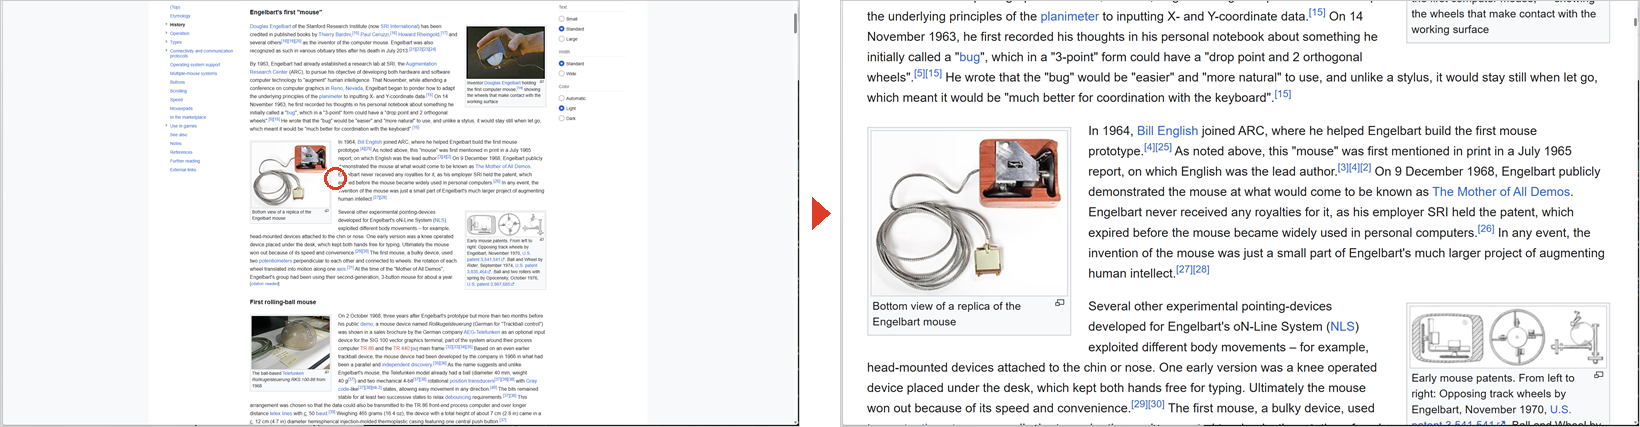
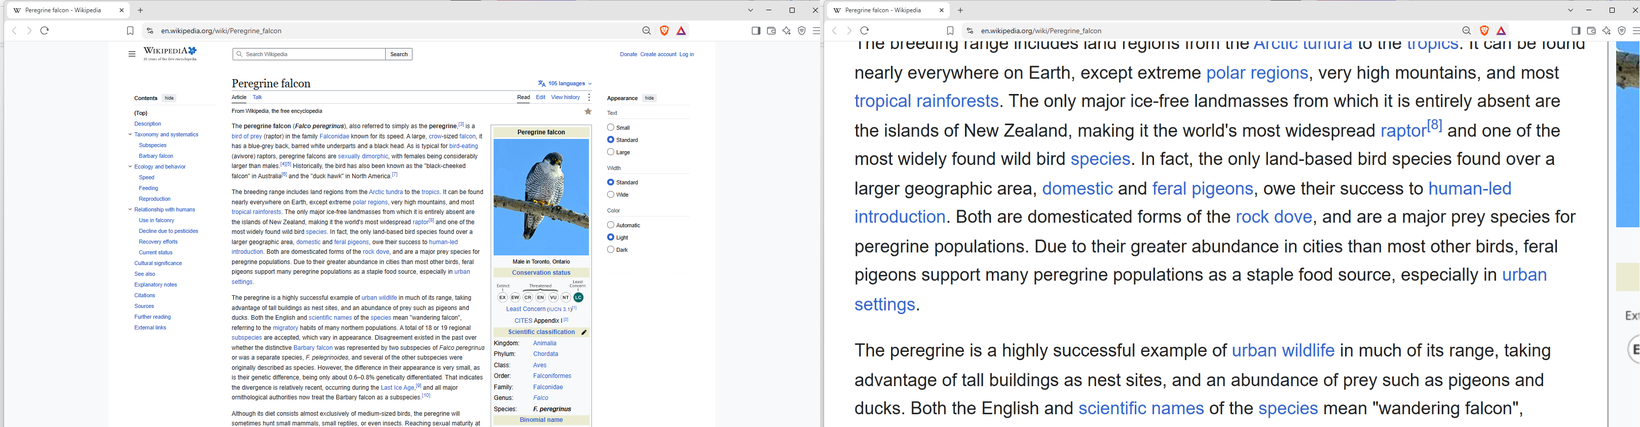
The README shows what a press actually does
The demo media and half the prose still described the old browser
behaviour, where a press found the paragraph under the cursor and fitted
it to the window. Since yesterday a browser press magnifies the page by
the amount you set, around the pixel under the pointer. The hero image is
the first thing a visitor sees and it was promising something the app no
longer does.

- Both demo images recaptured live through the running app: the static
  before/after and the animation now show a x3 magnification around the
  pointer and the second press putting it back. Same dimensions as the
  images they replace, so the README layout is unchanged, and the GIF is
  slightly smaller than the old one.
- The opening line, both browser rows of the strategy table and the alt
  text no longer claim the zoom is element-aware in a browser. Word and
  Excel still say they fit, because they do.
- The blocked-page limitation described falling back from "a fit of the
  element" to a centred zoom; that distinction is gone, since the zoom is
  the same size wherever it is aimed. It now also mentions that a page
  already at the browser's zoom ceiling is cleared and retried first.
- The Word limitation said the zoom is stepped. It is a gesture on the way
  in and stepped on the way out, and the entry says why.
- The Excel limitation gave a reason for not animating that is no longer
  the reason; replaced with the measured one.

docs/diagnostics-design.md said AdapterThrew means an adapter raised an
[…]

diff --git a/README.md b/README.md
@@ -1,22 +1,23 @@
 # SmartZoom for Windows
 
 **Bringing macOS's smart zoom to Windows.** Press a mouse button and the application under the
-cursor zooms its *content* to fit the element you're pointing at. Press again to return to exactly
+cursor zooms its *content* in on whatever you are pointing at — by the amount you choose in a browser,
+or to fit the paragraph, table or block of cells in Word and Excel. Press again to return to exactly
 where you were.
 
-![Before: a full Wikipedia page with the cursor on a paragraph. After: that paragraph fills the browser window.](docs/media/before-after-readme.png)
+![Before: a full Wikipedia page with the pointer resting in the article. After: the same page magnified three times around that point, the text large and crisp.](docs/media/before-after-readme.png)
 
 The same press, in motion:
 
-![One press zooms the paragraph under the cursor to the window; the next press puts the page back exactly as it was.](docs/media/smart-zoom.gif)
+![One press magnifies the page around the pointer; the next press puts it back exactly as it was.](docs/media/smart-zoom.gif)
 
 Windows has no system gesture for this, so SmartZoom is a small tray app that captures a mouse or keyboard
 trigger and routes it to a per-application zoom strategy:
 
 | Target | Strategy | Precision |
 |---|---|---|
-| Chrome, Edge, Brave, Opera, Vivaldi (any Chromium browser) | Native smart zoom: finds the paragraph/image under the cursor through the browser's accessibility tree and pinch-zooms it to fill the window — no extension needed | Element-aware, visual zoom (no reflow), exact restore |
-| Firefox | Native smart zoom, the same way: the block under the cursor comes from Firefox's accessibility tree and is pinch-zoomed through a synthetic touch device that Firefox accepts as a touch screen | Element-aware, visual zoom (no reflow), exact restore |
+| Chrome, Edge, Brave, Opera, Vivaldi (any Chromium browser) | Native smart zoom: pinch-zooms the page by the amount you set, around the pixel under the cursor, using the browser's own touch handling — no extension needed | Aimed at the cursor, visual zoom (no reflow), exact restore |
+| Firefox | Native smart zoom, the same way, through a synthetic touch device that Firefox accepts as a touch screen | Aimed at the cursor, visual zoom (no reflow), exact restore |
 | Word | Smart zoom through Word's object model: the paragraph, table or picture under the cursor is zoomed to fill the document pane; the previous zoom and scroll position are restored exactly | Element-aware, exact restore |
 | Excel | Smart zoom through Excel's object model: the block of data under the cursor — the surrounding island of filled cells, or the cells a chart or picture covers — is zoomed to fill the worksheet pane, and the view is scrolled to the row you pointed at | Element-aware, exact restore |
 | Acrobat, Acrobat Reader, SumatraPDF | An animated pinch around the cursor, the same gesture the browsers get: what you pointed at stays where it is and grows. The second press animates the magnification away and lands on the reader's own "fit page" | Animated, follows the cursor, never drifts |
@@ -200,7 +201,8 @@ four-finger tap can instead be a *Custom shortcut*, which you point at one of yo
 Logs are written to `%LOCALAPPDATA%\SmartZoom\logs` (rolling daily, 14 days kept).
 
 Settings → Diagnostics keeps a small local record of what SmartZoom failed to do — presses that
-zoomed nothing, adapters that threw, and crashes — at `%LOCALAPPDATA%\SmartZoom\diagnostics.json`, and renders
+zoomed nothing, zooms that failed or ran too long, and crashes — at
+`%LOCALAPPDATA%\SmartZoom\diagnostics.json`, and renders
 it on demand as a report you can copy into a bug report. It's on by default; the same section has a switch to
 turn it off — written to your settings file at once, so it stays off — and a button to clear what's recorded.
 Nothing in it is sent anywhere — see [SECURITY.md](SECURITY.md) for exactly what it holds and what it never
@@ -260,18 +262,21 @@ depending on which window is focused.
   inside the window. An element that blocks the pinch (`touch-action: none`, common in dialogs and
   drag-and-drop UIs such as Jira's) hands the gesture to the page's own scripts; SmartZoom notices because the
   screen does not change, and immediately tries the same zoom again from an anchor outside that element —
-  first beside it, then at the middle of the window. What you get then is a **visual zoom of the whole page
-  centred near the cursor rather than a fit of the element**: the browser scales the viewport around the new
-  anchor, so what you pointed at is magnified and still in view, but not sized to the window. The second
-  press restores the page exactly, as always. Only when every anchor is refused — the page blocks pinch
+  first beside it, then at the middle of the window. The zoom is the same size either way; only the point it
+  is aimed at moves, so what you pointed at is magnified and still in view but no longer under the pointer.
+  The second press restores the page exactly, as always. A page that has already been zoomed as far as the
+  browser allows refuses a pinch in exactly the same way, so it is cleared and retried once before any of
+  this is believed. Only when every anchor is refused — the page blocks pinch
   gestures across the window — does SmartZoom fall back to Ctrl+wheel page zoom, or, with
   `Zoom.Browser.CtrlWheelWhenPinchBlocked` off, report it and do nothing.
-- Word smart zoom changes the document zoom level in steps, so the motion is not as fluid as the
-  browsers' pinch: Word re-lays out the page at every level. Word's own status-bar zoom slider shows
-  the change and the value returns to the original on the second trigger.
-- Excel smart zoom jumps straight to the fitting zoom rather than animating, because Excel reports a
-  fitting zoom only by performing one. An empty cell with no data around it is not a block, so a
-  trigger there does nothing.
+- Word smart zoom zooms in with Word's own pinch, which Word animates, and zooms back out by stepping the
+  document zoom instead. That is deliberate: Word applies a closing pinch about a second after the gesture
+  ends, long enough to overwrite the exact zoom being restored, which left the document a little larger
+  after every toggle. Stepping back out is not as fluid but it returns to the original value exactly.
+- Excel smart zoom changes the sheet in one step rather than animating. A pinch was tried and dropped:
+  Excel applies one about a second late and a quarter short of what is asked for, so correcting it to the
+  fitting zoom was a bigger jump than simply going there. An empty cell with no data around it is not a
+  block, so a trigger there does nothing.
 - The pinch in a PDF reader magnifies by a fixed amount rather than fitting the page to the window:
   readers do not say how big the page is, and the gesture is aimed, not computed. Raise or lower
   `Zoom.Reader.Magnification` to taste.

diff --git a/docs/diagnostics-design.md b/docs/diagnostics-design.md
@@ -89,7 +89,7 @@ A **tally, not a journal**. A journal of every event grows without limit and say
 | Kind | Raised when |
 |---|---|
 | `ZoomedNothing` | A press resolved to a window and produced no zoom. `Reason` distinguishes `NoContent`, `NoBlock`, `AlreadyFits`, `GestureRefused`, `AutomationFailed`, `NoAdapter` and `AdapterCouldNotAct` (the strategy could not act and the Ctrl+wheel fallback did not either). It is always set for a press that zoomed nothing. `NoAdapter` and `AlreadyFits` are correct behaviour rather than defects, and are counted because "people keep pressing in an application that is routed to nothing" is exactly question 2 |
-| `AdapterThrew` | An adapter raised an exception the dispatcher caught |
+| `AdapterThrew` | A zoom failed rather than merely doing nothing. `Reason` is the exception's type name, or `TimeoutException` for a zoom that was still running when its deadline passed and was abandoned — in that one case nothing threw, and the sample carries a sentence instead of a stack |
 | `NoWindow` | A trigger resolved to no window at all |
 | `Crashed` | An unhandled exception reached the top of the process, or the top of the UI thread's message loop. The process survives the second kind (`Application.SetUnhandledExceptionMode(CatchException)`), so the key's adapter slot tells them apart: `UiThread` for those, null for a crash that took the process down |
 
@@ -169,7 +169,9 @@ Following the existing split, and adding no new plumbing through the zoom pipeli
   from the engine. `ZoomedNothing` is derived there, through `DiagnosticSampleFactory`, which is the one
   place a live outcome is turned into a key and a sample.
 - `TriggerDispatcher` already catches adapter exceptions so a failed zoom cannot end the dispatcher.
-  `AdapterThrew` is raised from that catch.
+  `AdapterThrew` is raised from that catch, and from the one beside it that abandons a zoom which has run
+  past its deadline — a zoom holding the engine's gate for ever would otherwise drop every later press in
+  silence, so it is a finding and is recorded like any other failure.
 
 ## The user interface
 
